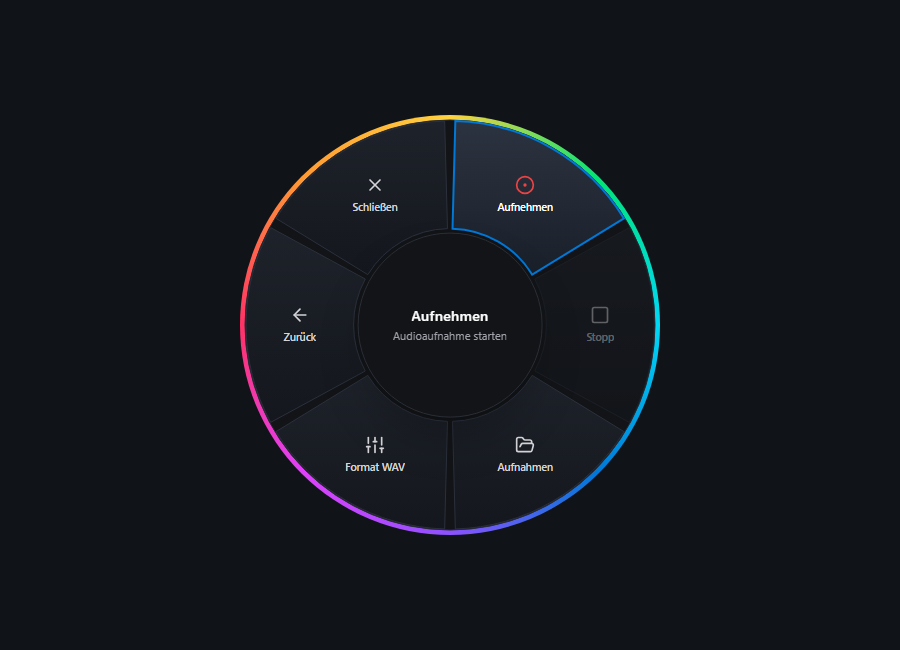
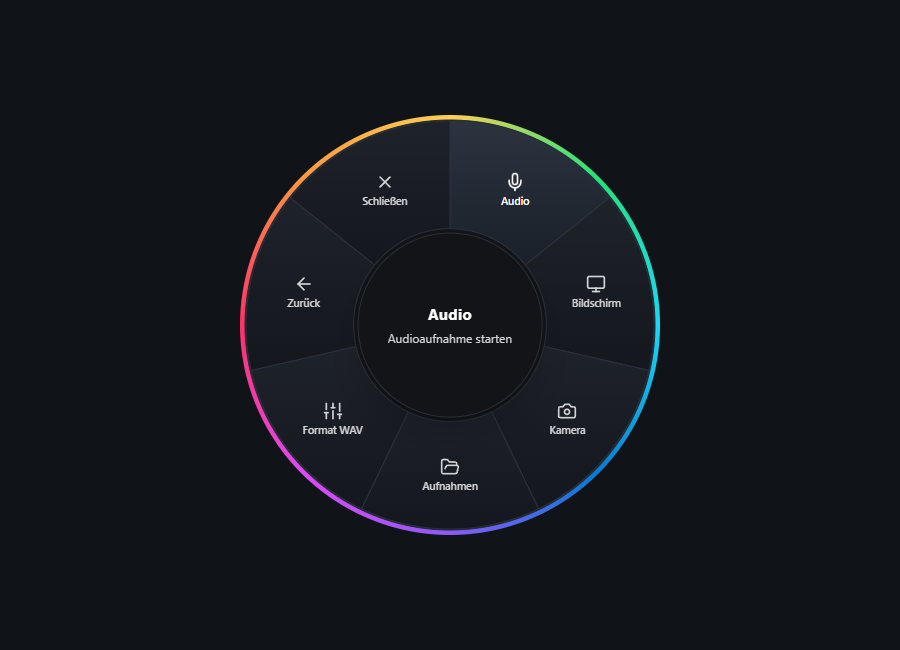
docs: update screenshots with 8 high-resolution 900x650 views and expanded gallery

diff --git a/README.md b/README.md
@@ -26,11 +26,23 @@ On the release page, choose the Windows setup file. Installed versions can be up
 
 ## 📸 Einblicke / A closer look
 
-| Orbit-Rad / Orbit wheel | Audio-Menü / Audio menu |
+| Orbit-Rad (Hauptmenü) · Orbit wheel | Aufnahme-Menü · Recording submenu |
 | :---: | :---: |
-| ![Orbit-Rad mit Audio, Einstellungen und Update](assets/orbit-wheel.png) | ![Audio-Menü mit Aufnahme, Format und Aufnahmen](assets/orbit-audio.png) |
+| ![Orbit-Rad Hauptmenü](assets/orbit-wheel.png) | ![Aufnahme-Menü für Audio, Bildschirm und Kamera](assets/orbit-audio.png) |
 
-*Produktansichten auf neutralem Hintergrund · Product views on a neutral background*
+| Aktive Aufnahme · Active recording | Regenbogen-Fortschritt · Rainbow progress |
+| :---: | :---: |
+| ![Aktive Aufnahme mit Live-Timer](assets/orbit-recording-active.png) | ![Regenbogen-Fortschritt beim verlustfreien MP4-Remuxing](assets/orbit-progress-remux.png) |
+
+| App-Starter · Quick app launcher | Smarter App-Katalog · App catalog |
+| :---: | :---: |
+| ![App-Starter für Spiele und Anwendungen](assets/orbit-app-starter.png) | ![Smarter Windows-App-Katalog in der Radmitte](assets/orbit-app-catalog.png) |
+
+| Audio-Einstellungen · Audio settings | Video-Einstellungen · Video settings |
+| :---: | :---: |
+| ![Audio-Quellen und Mischung](assets/orbit-settings-audio.png) | ![Video-Einstellungen und NVENC Hardware-Encoding](assets/orbit-settings-video.png) |
+
+*Produktansichten auf einheitlich dunklem Hintergrund (900 × 650 px) · Product views on a consistent dark background*
 
 ---
 
